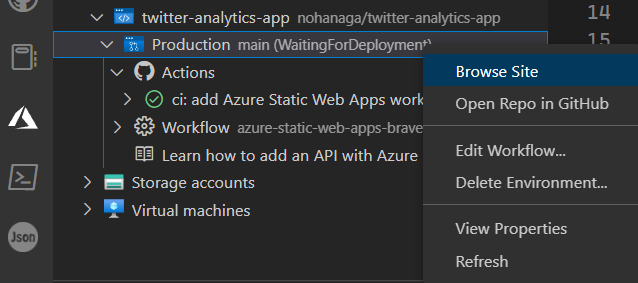
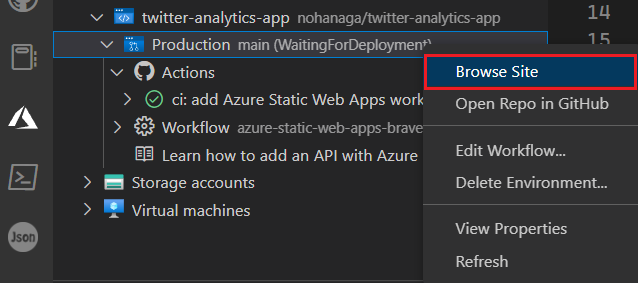
add ENV

Changed region(s): [[0.6552, 0.1696, 1.0, 0.3392]]

diff --git a/4-2-ex-deploy-static-web-app-api.md b/4-2-ex-deploy-static-web-app-api.md
@@ -77,7 +77,7 @@
 
 React のローカル ホストは `http://localhost:3000` です。
 
-![Web アプリケーション画面](./images/image4-002.png)
+<img src="./images/image4-002.png" width="700">
 
 データや API がまだないため、アプリには数値やグラフが表示されません。 このレッスンでは、後で Web アプリ用の API を追加します。
 
@@ -120,19 +120,33 @@ React のローカル ホストは `http://localhost:3000` です。
     |  Output location (出力場所)  |  **`build`** と入力します  |
     
 1. アプリが作成されると、確認通知が Visual Studio Code に表示されます。ビルドの構成中、Visual Studio Code にビルドの状態が示されます。
+
+1. Visual Studio Code の Azure アイコンをクリックし、[RESOURCES] ペインから [Static Web Apps] ツリーを開き、`twitter-analytics-app` を選択します。右クリックメニューから [Open in Portal] をクリックします。
+
+    <img src="./images/image4-006.png" width="400">
+
+1. ブラウザから Azure portal の Static Web Apps ページが開きます。左メニューから [設定] セクションの [構成] を選択します。右側の [アプリケーション設定] タブから下記の環境変数を追加して [保存] します。
+
+    |  Prompt  |  値  |
+    | ---- | ---- |
+    |  COSMOSDB_CONNECTIONSTRING  |  Cosmos DB スクリプト実行時に保存した接続文字列  |
+    |    |  接続文字列は `AccountEndpoint=https://[Account ID].documents.azure.com:443/;AccountKey=xxx;` のような形式です  |
+    |  COSMOSDB_SQL_API_DATABASE_NAME  |  `TwitterDatabase`  |
+    |  COSMOSDB_SQL_API_CONTAINER_NAME  |  `Twitter`  |
+
 1. GitHub Actions で [Actions] メニューを展開すると、デプロイの進行状況を参照できます。
 
-    ![Azure Static Web Apps 拡張](./images/image4-003.png)
+    <img src="./images/image4-003.png" width="400">
 
     デプロイが完了したら、Web サイトに直接移動できます。
 
 1. ブラウザーで Web サイトを表示するには、Static Web Apps 拡張機能でプロジェクトを右クリックし、 \[Browse Site](サイトの参照) を選択します。
 
-    ![Azure Static Web Apps 拡張](./images/image4-004.png)
+    <img src="./images/image4-004.png" width="400">
 
 おめでとうございます。 アプリを Azure Static Web Apps にデプロイしました。
 
-![Tweets Analytics Dashboard](./images/image4-005.png)
+<img src="./images/image4-005.png" width="700">
 
 > **注意**
 > アプリがまだビルドおよびデプロイされていないことを示す Web ページが表示されても心配しないでください。 しばらくしてからブラウザーを再更新してみてください。 Azure 静的 Web アプリが作成されると、GitHub アクションによって自動的に実行されます。 そのため、スプラッシュ ページが表示されても、アプリはデプロイ中です。
